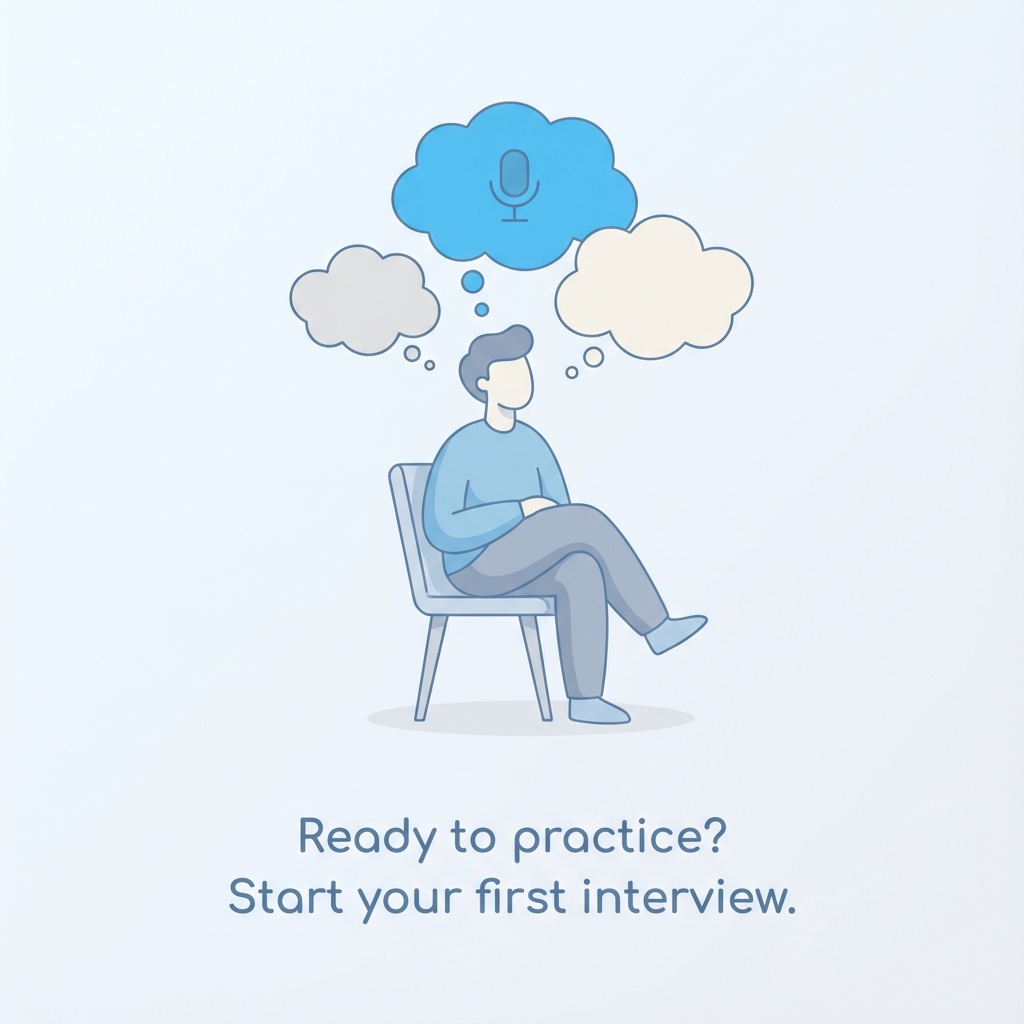
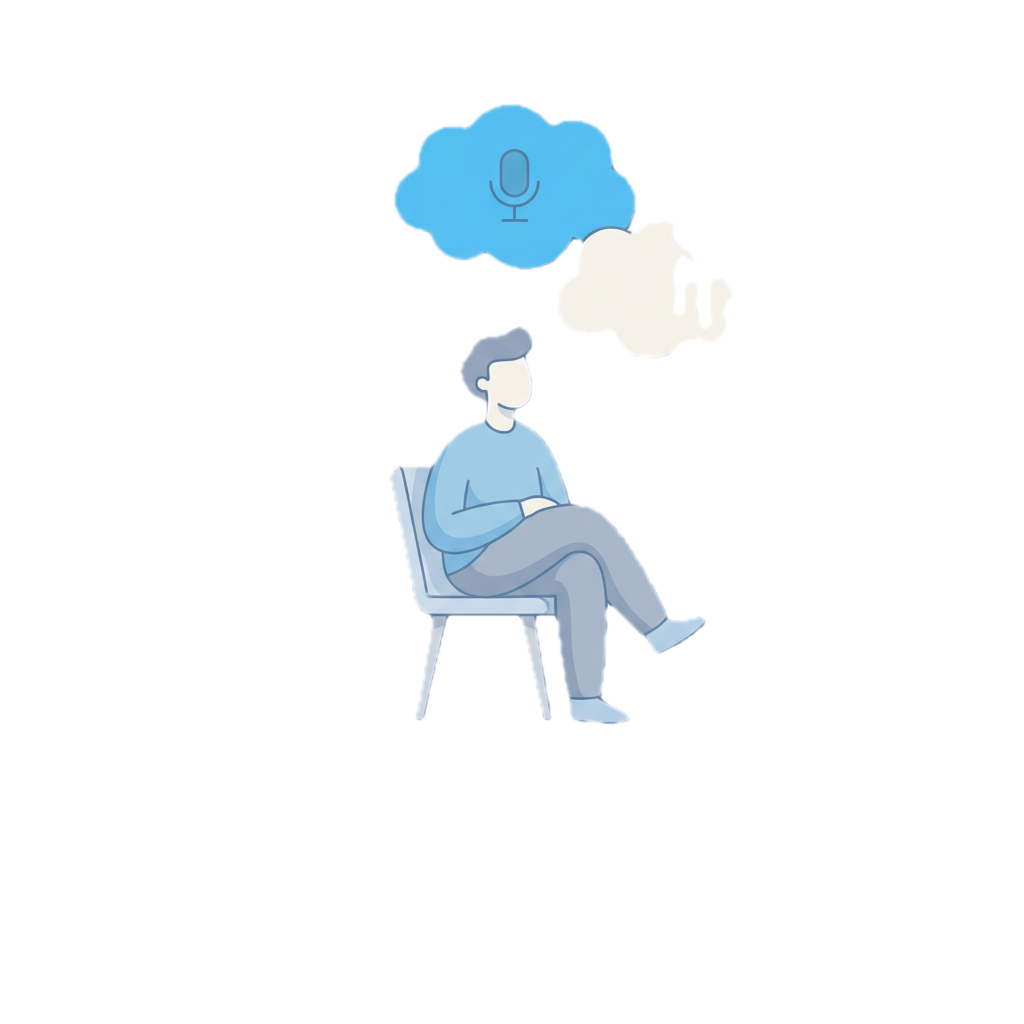
style(homepage): Make hero background elements theme-appropriate
- Update abstract background blurs with dark mode variants
- Make hero badge background theme-aware
- Update hero image container with dark mode styles
- Make floating score card theme-aware

✅ Theme-appropriate backgrounds for light/dark modes

🤖 Generated with Claude Code

diff --git a/frontend/src/components/common/__tests__/VoiceInputButton.test.tsx b/frontend/src/components/common/__tests__/VoiceInputButton.test.tsx
@@ -33,7 +33,7 @@ describe('VoiceInputButton', () => {
   describe('rendering', () => {
     it('should render microphone button', () => {
       render(<VoiceInputButton onTranscript={vi.fn()} />);
-      
+
       const button = screen.getByRole('button', { name: /start voice input/i });
       expect(button).toBeInTheDocument();
     });
@@ -45,7 +45,7 @@ describe('VoiceInputButton', () => {
       });
 
       render(<VoiceInputButton onTranscript={vi.fn()} />);
-      
+
       const button = screen.getByRole('button', { name: /stop voice input/i });
       expect(button).toHaveAttribute('aria-pressed', 'true');
     });
@@ -57,7 +57,7 @@ describe('VoiceInputButton', () => {
       });
 
       render(<VoiceInputButton onTranscript={vi.fn()} placeholder="Listening..." />);
-      
+
       expect(screen.getByText('Listening...')).toBeInTheDocument();
     });
 
@@ -68,7 +68,7 @@ describe('VoiceInputButton', () => {
       });
 
       render(<VoiceInputButton onTranscript={vi.fn()} />);
-      
+
       expect(screen.getByText('Permission denied')).toBeInTheDocument();
     });
 
@@ -79,7 +79,7 @@ describe('VoiceInputButton', () => {
       });
 
       render(<VoiceInputButton onTranscript={vi.fn()} />);
-      
+
       const button = screen.getByRole('button');
       expect(button).toBeDisabled();
       expect(button).toHaveAttribute('title', 'Speech recognition not supported in this browser');
@@ -89,21 +89,21 @@ describe('VoiceInputButton', () => {
   describe('size variants', () => {
     it('should apply small size', () => {
       render(<VoiceInputButton onTranscript={vi.fn()} size="sm" />);
-      
+
       const button = screen.getByRole('button');
       expect(button).toHaveClass('h-8', 'w-8');
     });
 
     it('should apply medium size by default', () => {
       render(<VoiceInputButton onTranscript={vi.fn()} />);
-      
+
       const button = screen.getByRole('button');
       expect(button).toHaveClass('h-10', 'w-10');
     });
 
     it('should apply large size', () => {
       render(<VoiceInputButton onTranscript={vi.fn()} size="lg" />);
-      
+
       const button = screen.getByRole('button');
       expect(button).toHaveClass('h-12', 'w-12');
     });
@@ -113,10 +113,10 @@ describe('VoiceInputButton', () => {
     it('should start listening when clicked', async () => {
       const user = userEvent.setup();
       render(<VoiceInputButton onTranscript={vi.fn()} />);
-      
+
       const button = screen.getByRole('button', { name: /start voice input/i });
       await user.click(button);
-      
+
       expect(mockResetTranscript).toHaveBeenCalled();
       expect(mockStartListening).toHaveBeenCalled();
     });
@@ -131,10 +131,10 @@ describe('VoiceInputButton', () => {
       const onTranscript = vi.fn();
       const user = userEvent.setup();
       render(<VoiceInputButton onTranscript={onTranscript} />);
-      
+
       const button = screen.getByRole('button', { name: /stop voice input/i });
       await user.click(button);
-      
+
       expect(mockStopListening).toHaveBeenCalled();
       expect(onTranscript).toHaveBeenCalledWith('Hello world');
       expect(mockResetTranscript).toHaveBeenCalled();
@@ -142,7 +142,7 @@ describe('VoiceInputButton', () => {
 
     it('should be disabled when disabled prop is true', () => {
       render(<VoiceInputButton onTranscript={vi.fn()} disabled />);
-      
+
       const button = screen.getByRole('button');
       expect(button).toBeDisabled();
     });
@@ -154,7 +154,7 @@ describe('VoiceInputButton', () => {
       });
 
       render(<VoiceInputButton onTranscript={vi.fn()} />);
-      
+
       const button = screen.getByRole('button');
       expect(button).toBeDisabled();
     });
@@ -163,18 +163,18 @@ describe('VoiceInputButton', () => {
   describe('transcript handling', () => {
     it('should call onTranscript with final transcript', async () => {
       const onTranscript = vi.fn();
-      
+
       // First render with no final transcript
       const { rerender } = render(<VoiceInputButton onTranscript={onTranscript} />);
-      
+
       // Simulate final transcript arriving
       vi.mocked(speechRecognitionModule.useSpeechRecognition).mockReturnValue({
         ...defaultMockReturn,
         finalTranscript: 'Hello world',
       });
-      
+
       rerender(<VoiceInputButton onTranscript={onTranscript} />);
-      
+
       await waitFor(() => {
         expect(onTranscript).toHaveBeenCalledWith('Hello world');
       });
@@ -184,7 +184,7 @@ describe('VoiceInputButton', () => {
     it('should call onInterim with interim transcript', async () => {
       const onInterim = vi.fn();
       const onResult = vi.fn();
-      
+
       // Mock the hook to call onResult callback
       let resultCallback: ((text: string, isFinal: boolean) => void) | undefined;
       vi.mocked(speechRecognitionModule.useSpeechRecognition).mockImplementation((options) => {
@@ -193,12 +193,12 @@ describe('VoiceInputButton', () => {
       });
 
       render(<VoiceInputButton onTranscript={vi.fn()} onInterim={onInterim} />);
-      
+
       // Simulate interim result
       if (resultCallback) {
         resultCallback('Hello', false);
       }
-      
+
       await waitFor(() => {
         expect(onInterim).toHaveBeenCalledWith('Hello');
       });
@@ -207,7 +207,7 @@ describe('VoiceInputButton', () => {
     it('should not call onInterim for final results', async () => {
       const onInterim = vi.fn();
       const onResult = vi.fn();
-      
+
       let resultCallback: ((text: string, isFinal: boolean) => void) | undefined;
       vi.mocked(speechRecognitionModule.useSpeechRecognition).mockImplementation((options) => {
         resultCallback = options?.onResult;
@@ -215,12 +215,12 @@ describe('VoiceInputButton', () => {
       });
 
       render(<VoiceInputButton onTranscript={vi.fn()} onInterim={onInterim} />);
-      
+
       // Simulate final result
       if (resultCallback) {
         resultCallback('Hello world', true);
       }
-      
+
       // onInterim should not be called for final results
       expect(onInterim).not.toHaveBeenCalled();
     });
@@ -234,7 +234,7 @@ describe('VoiceInputButton', () => {
       });
 
       render(<VoiceInputButton onTranscript={vi.fn()} autoStart />);
-      
+
       expect(mockStartListening).toHaveBeenCalled();
     });
 
@@ -245,7 +245,7 @@ describe('VoiceInputButton', () => {
       });
 
       render(<VoiceInputButton onTranscript={vi.fn()} autoStart disabled />);
-      
+
       expect(mockStartListening).not.toHaveBeenCalled();
     });
 
@@ -256,7 +256,7 @@ describe('VoiceInputButton', () => {
       });
 
       render(<VoiceInputButton onTranscript={vi.fn()} autoStart />);
-      
+
       expect(mockStartListening).not.toHaveBeenCalled();
     });
   });
@@ -264,7 +264,7 @@ describe('VoiceInputButton', () => {
   describe('accessibility', () => {
     it('should have proper aria-label', () => {
       render(<VoiceInputButton onTranscript={vi.fn()} />);
-      
+
       const button = screen.getByRole('button', { name: /start voice input/i });
       expect(button).toHaveAttribute('aria-label', 'Start voice input');
     });
@@ -276,7 +276,7 @@ describe('VoiceInputButton', () => {
       });
 
       render(<VoiceInputButton onTranscript={vi.fn()} />);
-      
+
       const button = screen.getByRole('button');
       expect(button).toHaveAttribute('aria-pressed', 'true');
       expect(button).toHaveAttribute('aria-label', 'Stop voice input');
@@ -284,7 +284,7 @@ describe('VoiceInputButton', () => {
 
     it('should have focus-visible ring', () => {
       render(<VoiceInputButton onTranscript={vi.fn()} />);
-      
+
       const button = screen.getByRole('button');
       expect(button).toHaveClass('focus-visible:ring-2', 'focus-visible:ring-electric-blue');
     });

diff --git a/frontend/src/pages/HomePage.tsx b/frontend/src/pages/HomePage.tsx
@@ -9,15 +9,15 @@ export default function HomePage() {
     <div className="min-h-screen bg-surface-primary overflow-hidden">
       {/* Hero Section */}
       <section className="relative pt-32 pb-20 lg:pt-48 lg:pb-32 overflow-hidden">
-        {/* Abstract Background Elements */}
+        {/* Abstract Background Elements - Theme Aware */}
         <div className="absolute top-0 left-0 w-full h-full overflow-hidden -z-10">
-          <div className="absolute top-[-10%] right-[-5%] w-[500px] h-[500px] rounded-full bg-electric-blue/20 blur-[100px] animate-pulse-glow" />
-          <div className="absolute bottom-[-10%] left-[-10%] w-[600px] h-[600px] rounded-full bg-indigo-500/10 blur-[120px] animate-pulse-glow" style={{ animationDelay: '1s' }} />
+          <div className="absolute top-[-10%] right-[-5%] w-[500px] h-[500px] rounded-full bg-electric-blue/20 dark:bg-electric-blue/10 blur-[100px] animate-pulse-glow" />
+          <div className="absolute bottom-[-10%] left-[-10%] w-[600px] h-[600px] rounded-full bg-indigo-500/10 dark:bg-indigo-500/5 blur-[120px] animate-pulse-glow" style={{ animationDelay: '1s' }} />
         </div>
 
         <div className="container mx-auto px-6 relative z-10">
           <div className="max-w-4xl mx-auto text-center">
-            <div className="inline-flex items-center gap-2 px-4 py-2 rounded-full bg-white/50 border border-white/60 backdrop-blur-sm shadow-sm mb-8 animate-fade-in">
+            <div className="inline-flex items-center gap-2 px-4 py-2 rounded-full bg-white/50 dark:bg-surface-secondary/80 border border-white/60 dark:border-border-light backdrop-blur-sm shadow-sm mb-8 animate-fade-in">
               <span className="flex h-2 w-2 rounded-full bg-electric-blue"></span>
               <span className="text-sm font-medium text-text-secondary">AI-Powered Interview Coach</span>
             </div>
@@ -55,8 +55,8 @@ export default function HomePage() {
 
           {/* Hero Visual */}
           <div className="mt-20 relative max-w-5xl mx-auto animate-scale-in" style={{ animationDelay: '0.3s' }}>
-            <div className="absolute -inset-1 bg-gradient-to-r from-electric-blue to-indigo-600 rounded-2xl blur opacity-20"></div>
-            <div className="relative rounded-2xl overflow-hidden shadow-2xl border border-white/20 bg-white/50 backdrop-blur-xl">
+            <div className="absolute -inset-1 bg-gradient-to-r from-electric-blue to-indigo-600 rounded-2xl blur opacity-20 dark:opacity-10"></div>
+            <div className="relative rounded-2xl overflow-hidden shadow-2xl border border-white/20 dark:border-border-light bg-white/50 dark:bg-surface-secondary/30 backdrop-blur-xl">
               <img
                 src="/images/hero-illustration.png"
                 alt="Dashboard Preview"
@@ -66,14 +66,14 @@ export default function HomePage() {
                 fetchPriority="high"
               />
               {/* Floating Elements */}
-              <div className="absolute top-10 right-10 p-4 bg-white/90 backdrop-blur-md rounded-xl shadow-lg border border-white/50 animate-float hidden md:block">
+              <div className="absolute top-10 right-10 p-4 bg-white/90 dark:bg-surface-secondary/90 backdrop-blur-md rounded-xl shadow-lg border border-white/50 dark:border-border-light animate-float hidden md:block">
                 <div className="flex items-center gap-3">
-                  <div className="w-10 h-10 rounded-full bg-green-100 flex items-center justify-center">
-                    <CheckCircle2 className="w-6 h-6 text-green-600" />
+                  <div className="w-10 h-10 rounded-full bg-green-100 dark:bg-green-900/30 flex items-center justify-center">
+                    <CheckCircle2 className="w-6 h-6 text-green-600 dark:text-green-400" />
                   </div>
                   <div>
                     <p className="text-xs text-text-secondary font-medium uppercase">Audio Score</p>
-                    <p className="text-xl font-bold text-charcoal">92/100</p>
+                    <p className="text-xl font-bold text-charcoal dark:text-text-primary">92/100</p>
                   </div>
                 </div>
               </div>

diff --git a/frontend/src/pages/PreparationPage.tsx b/frontend/src/pages/PreparationPage.tsx
@@ -331,8 +331,8 @@ export default function PreparationPage() {
 
   // Update live transcript (not currently used but kept for future use)
   // Get question for coaching (use first detective question or generic)
-  const practiceQuestion = qnaList.length > 0 
-    ? qnaList[0].question 
+  const practiceQuestion = qnaList.length > 0
+    ? qnaList[0].question
     : 'Practice your prepared answer';
 
   // AI Coaching Hint hook for practice stage
@@ -527,7 +527,7 @@ export default function PreparationPage() {
                     <VoiceInputButton
                       onTranscript={(text) => {
                         // Append to existing answer or replace if empty
-                        setCurrentAnswer((prev) => 
+                        setCurrentAnswer((prev) =>
                           prev.trim() ? `${prev} ${text}`.trim() : text
                         );
                         setInterimTranscript('');
@@ -747,7 +747,7 @@ export default function PreparationPage() {
                   disabled={isSubmitting}
                   onTranscriptChange={handleTranscriptChange}
                 />
-                
+
                 {/* AI Coaching Overlay */}
                 {isRecording && showCoach && (
                   <CoachOverlay

diff --git a/frontend/src/components/common/VoiceInputButton.tsx b/frontend/src/components/common/VoiceInputButton.tsx
@@ -142,7 +142,7 @@ export function VoiceInputButton({
         {isListening && (
           <span className="absolute inset-0 rounded-full bg-status-error opacity-75 animate-ping" />
         )}
-        
+
         {/* Microphone icon */}
         {isListening ? (
           <Mic size={iconSizes[size]} className="relative z-10" />
